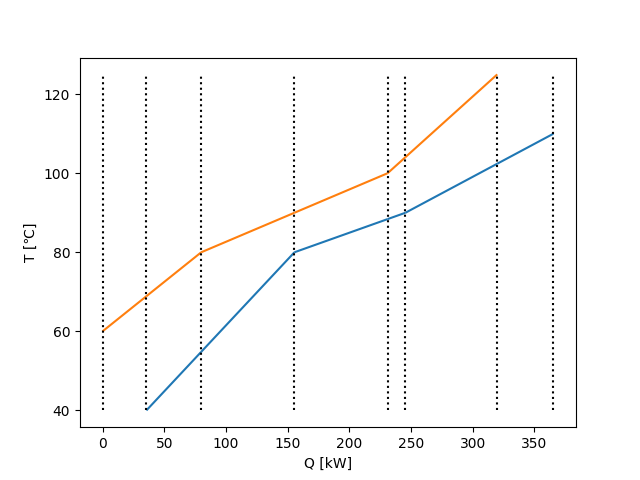
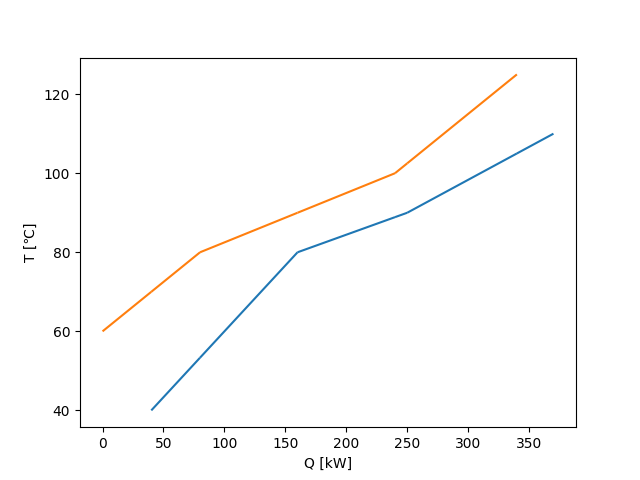
Update simple example

diff --git a/examples/simple/main.py b/examples/simple/main.py
@@ -62,6 +62,17 @@ def main():
 
     # TQ線図
     hot_lines, cold_lines = analyzer.create_tq()
+
+    # 与熱複合線と受熱複合線
+    fig, ax = plt.subplots(1, 1)
+    ax.set_xlabel("Q [kW]")
+    ax.set_ylabel("T [℃]")
+    ax.add_collection(LineCollection(hot_lines, colors="#ff7f0e"))
+    ax.add_collection(LineCollection(cold_lines, colors="#1f77b4"))
+    ax.autoscale()
+    fig.savefig("./tq_diagram.png")
+
+    # 熱量の区間ごとのたて線も表示
     ymin, ymax = y_range(hot_lines + cold_lines)
     heats = extract_x(hot_lines + cold_lines)
     fig, ax = plt.subplots(1, 1)
@@ -71,10 +82,21 @@ def main():
     ax.add_collection(LineCollection(cold_lines, colors="#1f77b4"))
     ax.vlines(heats, ymin=ymin, ymax=ymax, linestyles=':', colors='k')
     ax.autoscale()
-    fig.savefig("./tq_diagram.png")
+    fig.savefig("./tq_diagram_with_vlines.png")
 
     # 分割したTQ線図
     hot_lines_separated, cold_lines_separated = analyzer.create_tq_separated()
+
+    # 与熱複合線と受熱複合線
+    fig, ax = plt.subplots(1, 1)
+    ax.set_xlabel("Q [kW]")
+    ax.set_ylabel("T [℃]")
+    ax.add_collection(LineCollection(hot_lines_separated, colors="#ff7f0e"))
+    ax.add_collection(LineCollection(cold_lines_separated, colors="#1f77b4"))
+    ax.autoscale()
+    fig.savefig("./tq_diagram_separeted.png")
+
+    # 熱量の区間ごとのたて線も表示
     ymin, ymax = y_range(hot_lines_separated + cold_lines_separated)
     heats_separated = extract_x(hot_lines_separated + cold_lines_separated)
     fig, ax = plt.subplots(1, 1)
@@ -83,12 +105,22 @@ def main():
     ax.add_collection(LineCollection(hot_lines_separated, colors="#ff7f0e"))
     ax.add_collection(LineCollection(cold_lines_separated, colors="#1f77b4"))
     ax.vlines(heats_separated, ymin=ymin, ymax=ymax, linestyles=':', colors='gray')
-    ax.vlines(heats, ymin=ymin, ymax=ymax, linestyles=':', colors='k')
     ax.autoscale()
-    fig.savefig("./tq_diagram_separeted.png")
+    fig.savefig("./tq_diagram_separeted_with_vlines.png")
 
     # 最小接近温度差を満たす分割したTQ線図
     hot_lines_splitted, cold_lines_splitted = analyzer.create_tq_splitted()
+
+    # 与熱複合線と受熱複合線
+    fig, ax = plt.subplots(1, 1)
+    ax.set_xlabel("Q [kW]")
+    ax.set_ylabel("T [℃]")
+    ax.add_collection(LineCollection(hot_lines_splitted, colors="#ff7f0e"))
+    ax.add_collection(LineCollection(cold_lines_splitted, colors="#1f77b4"))
+    ax.autoscale()
+    fig.savefig("./tq_diagram_splitted.png")
+
+    # 熱量の区間ごとのたて線も表示
     ymin, ymax = y_range(hot_lines_splitted + cold_lines_splitted)
     heats_splitted = extract_x(hot_lines_separated + cold_lines_separated)
     fig, ax = plt.subplots(1, 1)
@@ -97,12 +129,22 @@ def main():
     ax.add_collection(LineCollection(hot_lines_splitted, colors="#ff7f0e"))
     ax.add_collection(LineCollection(cold_lines_splitted, colors="#1f77b4"))
     ax.vlines(heats_splitted, ymin=ymin, ymax=ymax, linestyles=':', colors='gray')
-    ax.vlines(heats, ymin=ymin, ymax=ymax, linestyles=':', colors='k')
     ax.autoscale()
-    fig.savefig("./tq_diagram_splitted.png")
+    fig.savefig("./tq_diagram_splitted_with_vlines.png")
 
     # 熱交換器を結合したTQ線図
     hot_lines_merged, cold_lines_merged = analyzer.create_tq_merged()
+
+    # 与熱複合線と受熱複合線
+    fig, ax = plt.subplots(1, 1)
+    ax.set_xlabel("Q [kW]")
+    ax.set_ylabel("T [℃]")
+    ax.add_collection(LineCollection(hot_lines_merged, colors="#ff7f0e"))
+    ax.add_collection(LineCollection(cold_lines_merged, colors="#1f77b4"))
+    ax.autoscale()
+    fig.savefig("./tq_diagram_merged.png")
+
+    # 熱量の区間ごとのたて線も表示
     ymin, ymax = y_range(hot_lines_merged + cold_lines_merged)
     heats_merged = extract_x(hot_lines_merged + cold_lines_merged)
     fig, ax = plt.subplots(1, 1)
@@ -112,7 +154,7 @@ def main():
     ax.add_collection(LineCollection(cold_lines_merged, colors="#1f77b4"))
     ax.vlines(heats_merged, ymin=ymin, ymax=ymax, linestyles=':', colors='gray')
     ax.autoscale()
-    fig.savefig("./tq_diagram_merged.png")
+    fig.savefig("./tq_diagram_merged_with_vlines.png")
 
 
 if __name__ == '__main__':
